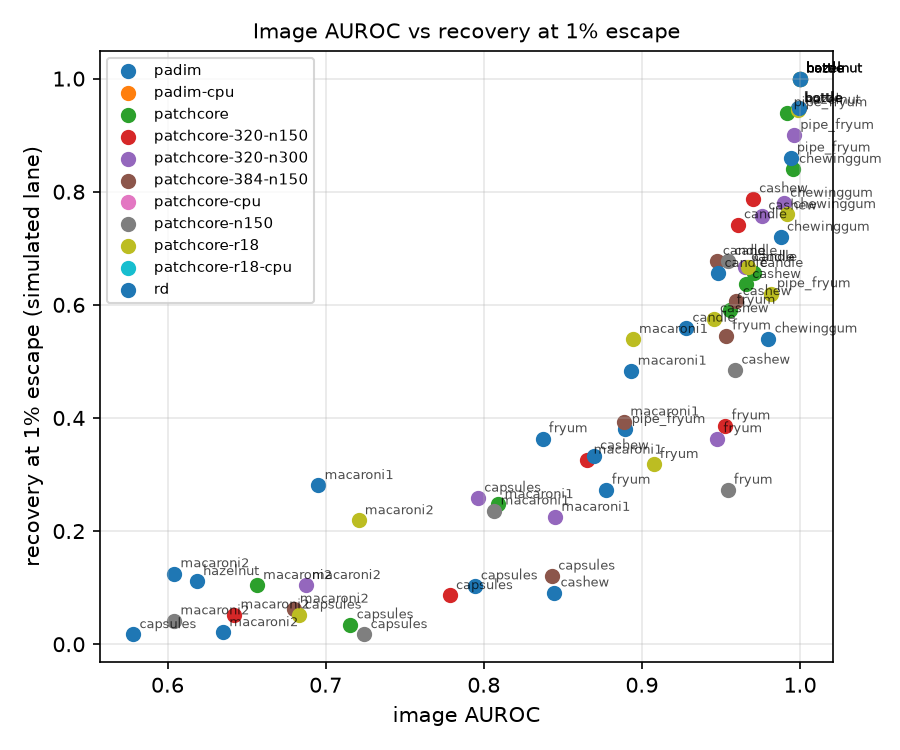
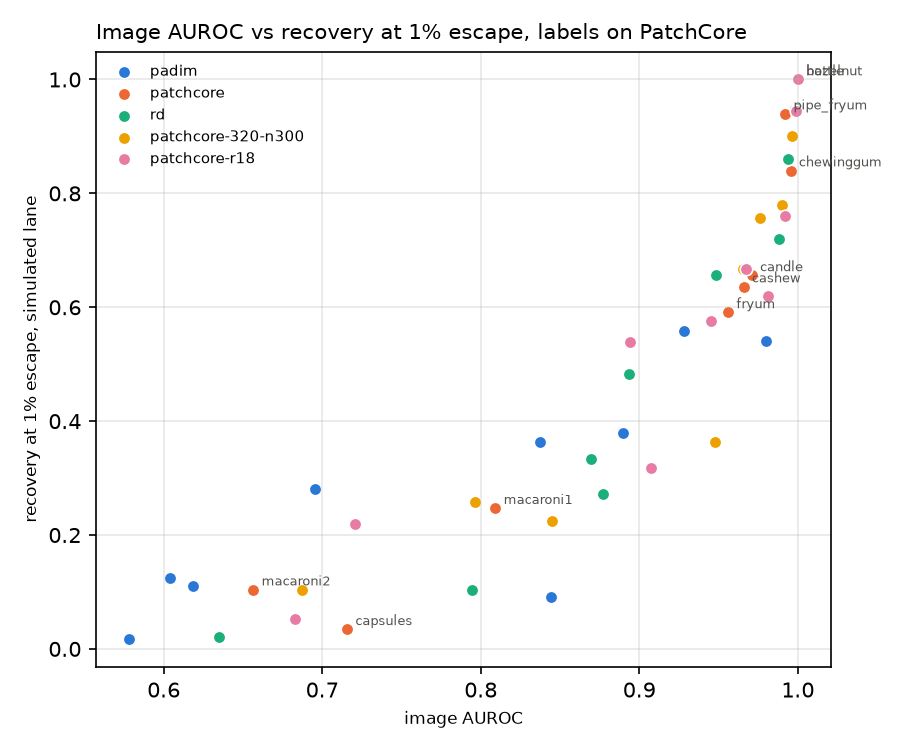
fix: auroc figure main models only, grid tag for 256 subset

diff --git a/scripts/lane.py b/scripts/lane.py
@@ -265,16 +265,23 @@ def make_figures(df: pd.DataFrame, frr_df: pd.DataFrame, scores: dict, standins:
     out.mkdir(parents=True, exist_ok=True)
     col = "aligned_rec@0.01" if "aligned_rec@0.01" in df else "all_rec@0.01"
 
+    # one dot per model and category, main models only, fixed colours
+    main = [("padim", "#2a78d6"), ("patchcore", "#eb6834"), ("rd", "#1baf7a"),
+            ("patchcore-320-n300", "#eda100"), ("patchcore-r18", "#e87ba4")]
     fig, ax = plt.subplots(figsize=(6, 5))
-    for model, g in df.groupby("model"):
-        ax.scatter(g.auroc, g[col], label=model, s=40)
-        for _, r in g.iterrows():
-            ax.annotate(r.category, (r.auroc, r[col]), fontsize=6, alpha=0.7, xytext=(3, 3), textcoords="offset points")
-    ax.set_xlabel("image AUROC")
-    ax.set_ylabel("recovery at 1% escape (" + ("simulated lane" if col.startswith("aligned") else "all goods") + ")")
-    ax.set_title("Image AUROC vs recovery at 1% escape", fontsize=10)
+    for model, color in main:
+        g = df[df.model == model]
+        if g.empty:
+            continue
+        ax.scatter(g.auroc, g[col], label=model, s=36, color=color, edgecolor="#ffffff", linewidth=0.8)
+    g = df[df.model == "patchcore"]
+    for _, r in g.iterrows():
+        ax.annotate(r.category, (r.auroc, r[col]), fontsize=6, color="#52514e", xytext=(4, 2), textcoords="offset points")
+    ax.set_xlabel("image AUROC", fontsize=8)
+    ax.set_ylabel("recovery at 1% escape, " + ("simulated lane" if col.startswith("aligned") else "all goods"), fontsize=8)
+    ax.set_title("Image AUROC vs recovery at 1% escape, labels on PatchCore", fontsize=10, loc="left")
     ax.grid(alpha=0.3)
-    ax.legend(fontsize=7)
+    ax.legend(fontsize=7, frameon=False)
     fig.tight_layout()
     fig.savefig(out / "auroc_vs_recovery.png", dpi=150)
     plt.close(fig)

diff --git a/docs/results.md b/docs/results.md
@@ -31,7 +31,7 @@ recovery = auto-passed goods, escape = auto-passed defects, review = sent to a h
 | visa | candle | patchcore-320-n150 | 100/100 | 0.96 | 0.38 | 0.75 | 0.85 | 0.93 | 0.74 | 0.95 | 0.74 | 0.85 | 0.73 | 20.20 |
 | visa | candle | patchcore-320-n300 | 100/100 | 0.97 | 0.60 | 0.68 | 0.86 | 0.93 | 0.67 | 0.95 | 0.66 | 0.85 | 0.64 | 31.10 |
 | visa | candle | patchcore-384-n150 | 100/100 | 0.95 | 0.52 | 0.67 | 0.82 | 0.93 | 0.68 | 0.95 | 0.66 | 0.85 | 0.62 | 38.20 |
-| visa | candle | patchcore-n150 | 100/100 | 0.95 | 0.44 | 0.69 | 0.85 | 0.93 | 0.68 | 0.95 | 0.67 | 0.85 | 0.66 | 13.80 |
+| visa | candle | patchcore-n150 | 100/100 | 0.95 | 0.61 | 0.75 | 0.84 | 0.93 | 0.74 | 0.95 | 0.75 | 0.85 | 0.72 | 11.50 |
 | visa | candle | patchcore-r18 | 100/100 | 0.97 | 0.58 | 0.67 | 0.81 | 0.93 | 0.67 | 0.95 | 0.68 | 0.85 | 0.62 | 17.60 |
 | visa | candle | rd | 100/100 | 0.95 | 0.42 | 0.67 | 0.78 | 0.93 | 0.66 | 0.95 | 0.65 | 0.85 | 0.64 | 123.00 |
 | visa | capsules | padim | 60/100 | 0.58 | 0.00 | 0.02 | 0.12 | 0.97 | 0.02 | 0.97 | 0.02 | 0.98 | 0.02 | 10.10 |
@@ -47,7 +47,7 @@ recovery = auto-passed goods, escape = auto-passed defects, review = sent to a h
 | visa | cashew | patchcore-320-n150 | 50/100 | 0.97 | 0.44 | 0.78 | 0.84 | 0.66 | 0.79 | 0.78 | 0.77 | 0.86 | 0.77 | 21.30 |
 | visa | cashew | patchcore-320-n300 | 50/100 | 0.98 | 0.52 | 0.82 | 0.88 | 0.66 | 0.76 | 0.78 | 0.77 | 0.86 | 0.79 | 33.00 |
 | visa | cashew | patchcore-384-n150 | 50/100 | 0.96 | 0.24 | 0.66 | 0.78 | 0.66 | 0.61 | 0.78 | 0.67 | 0.86 | 0.63 | 40.50 |
-| visa | cashew | patchcore-n150 | 50/100 | 0.96 | 0.48 | 0.56 | 0.74 | 0.66 | 0.48 | 0.78 | 0.51 | 0.86 | 0.51 | 14.80 |
+| visa | cashew | patchcore-n150 | 50/100 | 0.96 | 0.56 | 0.64 | 0.78 | 0.66 | 0.61 | 0.78 | 0.59 | 0.86 | 0.60 | 12.70 |
 | visa | cashew | patchcore-r18 | 50/100 | 0.95 | 0.40 | 0.64 | 0.70 | 0.66 | 0.58 | 0.78 | 0.59 | 0.86 | 0.63 | 12.90 |
 | visa | cashew | rd | 50/100 | 0.87 | 0.38 | 0.38 | 0.52 | 0.66 | 0.33 | 0.78 | 0.41 | 0.86 | 0.37 | 126.80 |
 | visa | chewinggum | padim | 50/100 | 0.98 | 0.46 | 0.54 | 0.92 | 1.00 | 0.54 | 0.86 | 0.53 | 1.00 | 0.54 | 10.40 |
@@ -60,7 +60,7 @@ recovery = auto-passed goods, escape = auto-passed defects, review = sent to a h
 | visa | fryum | patchcore-320-n150 | 50/100 | 0.95 | 0.08 | 0.36 | 0.72 | 0.88 | 0.39 | 0.98 | 0.37 | 0.68 | 0.32 | 21.20 |
 | visa | fryum | patchcore-320-n300 | 50/100 | 0.95 | 0.22 | 0.36 | 0.70 | 0.88 | 0.36 | 0.98 | 0.37 | 0.68 | 0.29 | 33.40 |
 | visa | fryum | patchcore-384-n150 | 50/100 | 0.95 | 0.08 | 0.54 | 0.74 | 0.88 | 0.55 | 0.98 | 0.55 | 0.68 | 0.47 | 38.40 |
-| visa | fryum | patchcore-n150 | 50/100 | 0.95 | 0.26 | 0.28 | 0.76 | 0.88 | 0.27 | 0.98 | 0.29 | 0.68 | 0.21 | 12.50 |
+| visa | fryum | patchcore-n150 | 50/100 | 0.95 | 0.30 | 0.36 | 0.54 | 0.88 | 0.36 | 0.98 | 0.37 | 0.68 | 0.32 | 12.00 |
 | visa | fryum | patchcore-r18 | 50/100 | 0.91 | 0.12 | 0.32 | 0.44 | 0.88 | 0.32 | 0.98 | 0.33 | 0.68 | 0.32 | 13.20 |
 | visa | fryum | rd | 50/100 | 0.88 | 0.20 | 0.24 | 0.52 | 0.88 | 0.27 | 0.98 | 0.24 | 0.68 | 0.21 | 124.50 |
 | visa | macaroni1 | padim | 100/100 | 0.70 | 0.20 | 0.28 | 0.38 | 0.89 | 0.28 | 0.99 | 0.28 | 0.90 | 0.27 | 7.90 |
@@ -135,9 +135,9 @@ recovery = auto-passed goods, escape = auto-passed defects, review = sent to a h
 | visa | candle | patchcore-384-n150 | aligned | 93 | 0.56 | 0.01 | 0.39 | 0.97 | 0.04 |
 | visa | candle | patchcore-384-n150 | pca | 95 | 0.54 | 0.01 | 0.39 | 0.95 | 0.04 |
 | visa | candle | patchcore-384-n150 | tinypadim | 85 | 0.49 | 0.01 | 0.44 | 0.97 | 0.04 |
-| visa | candle | patchcore-n150 | aligned | 93 | 0.47 | 0.02 | 0.47 | 0.97 | 0.04 |
-| visa | candle | patchcore-n150 | pca | 95 | 0.51 | 0.02 | 0.45 | 0.96 | 0.04 |
-| visa | candle | patchcore-n150 | tinypadim | 85 | 0.46 | 0.02 | 0.48 | 0.97 | 0.04 |
+| visa | candle | patchcore-n150 | aligned | 93 | 0.64 | 0.02 | 0.43 | 0.97 | 0.04 |
+| visa | candle | patchcore-n150 | pca | 95 | 0.65 | 0.02 | 0.41 | 0.96 | 0.04 |
+| visa | candle | patchcore-n150 | tinypadim | 85 | 0.59 | 0.02 | 0.46 | 0.97 | 0.04 |
 | visa | candle | patchcore-r18 | aligned | 93 | 0.59 | 0.01 | 0.33 | 0.97 | 0.04 |
 | visa | candle | patchcore-r18 | pca | 95 | 0.60 | 0.01 | 0.32 | 0.97 | 0.04 |
 | visa | candle | patchcore-r18 | tinypadim | 85 | 0.53 | 0.01 | 0.36 | 0.98 | 0.04 |
@@ -183,9 +183,9 @@ recovery = auto-passed goods, escape = auto-passed defects, review = sent to a h
 | visa | cashew | patchcore-384-n150 | aligned | 33 | 0.27 | 0.02 | 0.33 | 0.97 | 0.04 |
 | visa | cashew | patchcore-384-n150 | pca | 39 | 0.23 | 0.02 | 0.36 | 0.98 | 0.04 |
 | visa | cashew | patchcore-384-n150 | tinypadim | 43 | 0.25 | 0.02 | 0.35 | 0.97 | 0.04 |
-| visa | cashew | patchcore-n150 | aligned | 33 | 0.43 | 0.01 | 0.29 | 0.96 | 0.04 |
-| visa | cashew | patchcore-n150 | pca | 39 | 0.51 | 0.01 | 0.28 | 0.97 | 0.04 |
-| visa | cashew | patchcore-n150 | tinypadim | 43 | 0.42 | 0.01 | 0.31 | 0.97 | 0.04 |
+| visa | cashew | patchcore-n150 | aligned | 33 | 0.54 | 0.01 | 0.24 | 0.98 | 0.04 |
+| visa | cashew | patchcore-n150 | pca | 39 | 0.54 | 0.01 | 0.26 | 0.98 | 0.04 |
+| visa | cashew | patchcore-n150 | tinypadim | 43 | 0.51 | 0.01 | 0.29 | 0.98 | 0.04 |
 | visa | cashew | patchcore-r18 | aligned | 33 | 0.34 | 0.01 | 0.38 | 0.97 | 0.04 |
 | visa | cashew | patchcore-r18 | pca | 39 | 0.41 | 0.01 | 0.34 | 0.95 | 0.04 |
 | visa | cashew | patchcore-r18 | tinypadim | 43 | 0.39 | 0.01 | 0.37 | 0.97 | 0.04 |
@@ -222,9 +222,9 @@ recovery = auto-passed goods, escape = auto-passed defects, review = sent to a h
 | visa | fryum | patchcore-384-n150 | aligned | 44 | 0.18 | 0.01 | 0.39 | 0.98 | 0.04 |
 | visa | fryum | patchcore-384-n150 | pca | 49 | 0.16 | 0.01 | 0.40 | 0.98 | 0.04 |
 | visa | fryum | patchcore-384-n150 | tinypadim | 34 | 0.17 | 0.01 | 0.34 | 0.99 | 0.04 |
-| visa | fryum | patchcore-n150 | aligned | 44 | 0.27 | 0.02 | 0.31 | 0.97 | 0.04 |
-| visa | fryum | patchcore-n150 | pca | 49 | 0.30 | 0.02 | 0.32 | 0.98 | 0.04 |
-| visa | fryum | patchcore-n150 | tinypadim | 34 | 0.20 | 0.02 | 0.30 | 0.98 | 0.04 |
+| visa | fryum | patchcore-n150 | aligned | 44 | 0.36 | 0.02 | 0.29 | 0.97 | 0.04 |
+| visa | fryum | patchcore-n150 | pca | 49 | 0.36 | 0.02 | 0.33 | 0.98 | 0.04 |
+| visa | fryum | patchcore-n150 | tinypadim | 34 | 0.26 | 0.02 | 0.29 | 0.98 | 0.04 |
 | visa | fryum | patchcore-r18 | aligned | 44 | 0.23 | 0.02 | 0.42 | 0.98 | 0.04 |
 | visa | fryum | patchcore-r18 | pca | 49 | 0.18 | 0.02 | 0.44 | 0.98 | 0.04 |
 | visa | fryum | patchcore-r18 | tinypadim | 34 | 0.11 | 0.02 | 0.43 | 0.97 | 0.04 |
